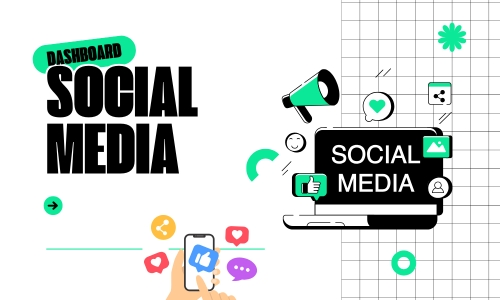
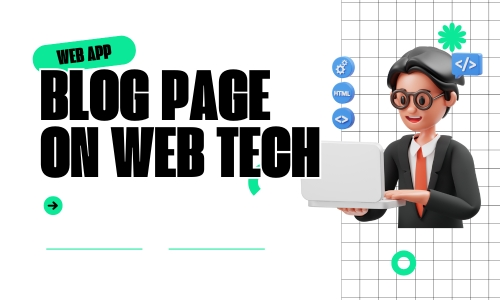
change in project poster

diff --git a/app/page.tsx b/app/page.tsx
@@ -924,9 +924,9 @@ export default function Portfolio() {
                 tags: ["React", "Node.js", "MongoDB", "Stripe"],
               },
               {
-                title: "Social Media Dashboard",
+                title: "Web Tech. Blog",
                 description:
-                  "Analytics dashboard for social media managers with real-time data visualization.",
+                  "A blog platform for sharing articles and tutorials on web technologies.",
                 image: "/SOCIALMEDIA.jpg?height=300&width=500",
                 tags: ["Next.js", "TypeScript", "Chart.js", "Firebase"],
               },
